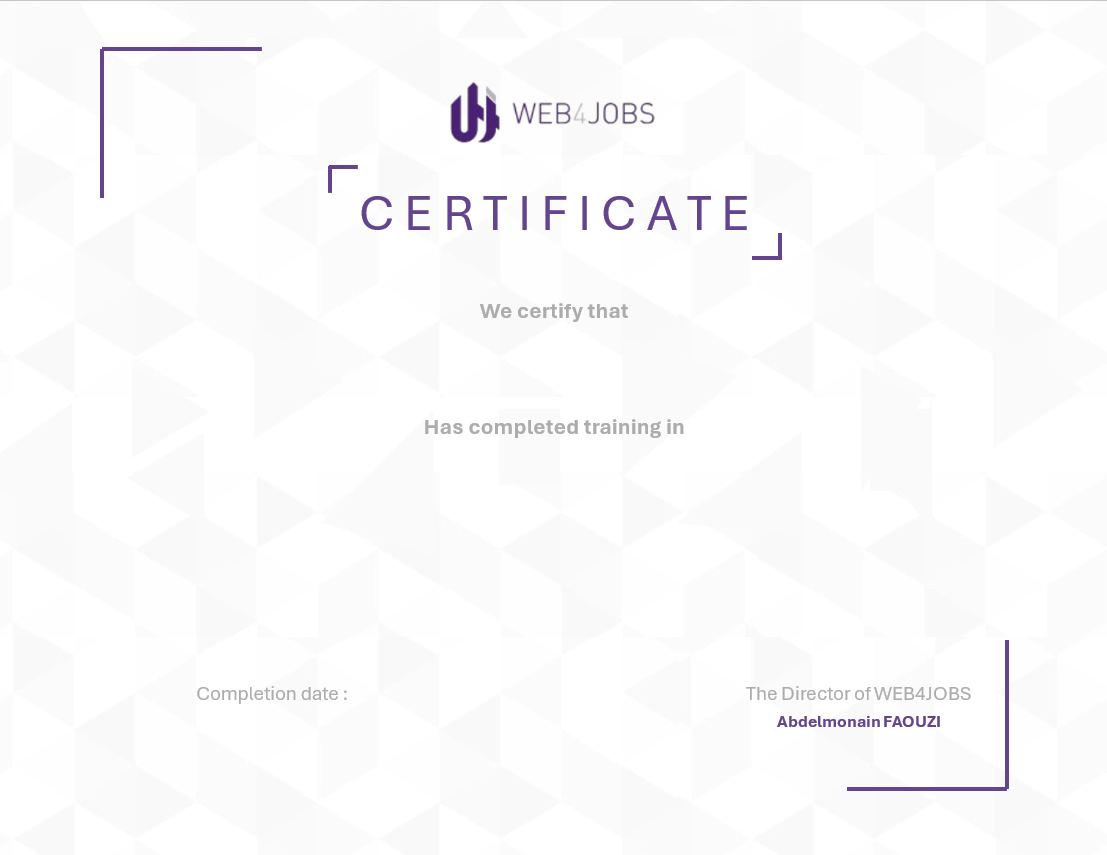
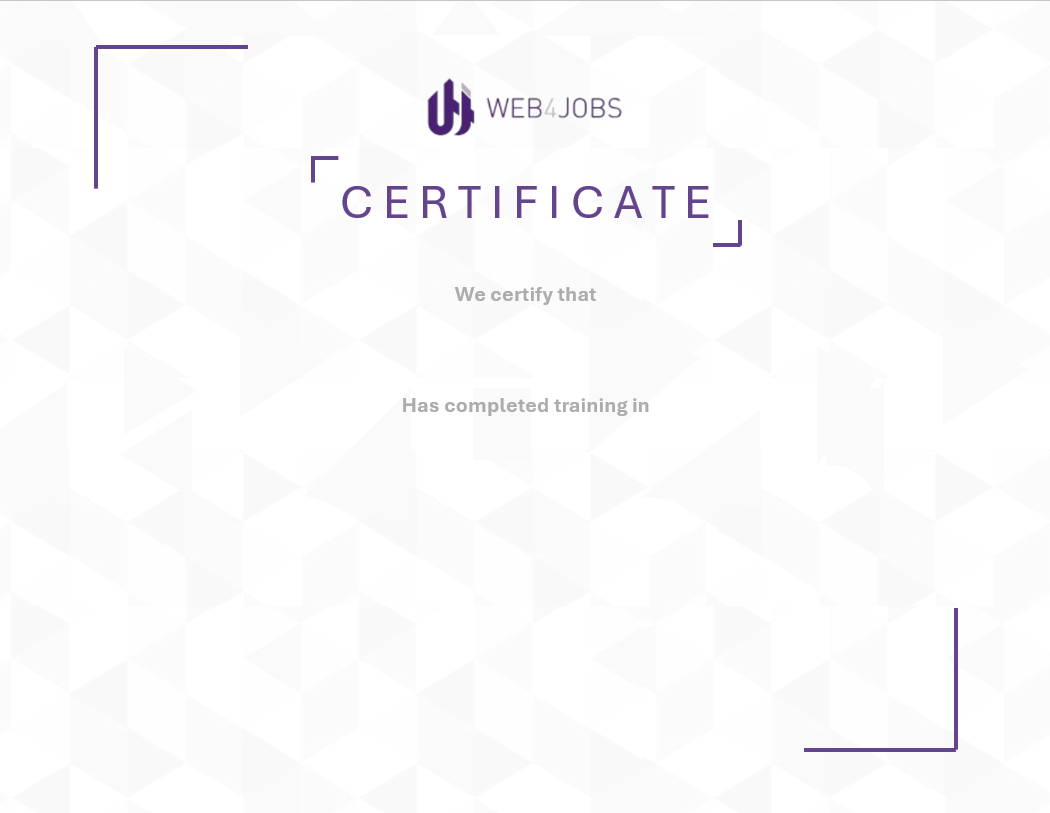
feature fix : 'certificate date'!

diff --git a/src/components/UI/PopupAlert.jsx b/src/components/UI/PopupAlert.jsx
@@ -1,0 +1,133 @@
+import React, { useEffect, useState } from "react";
+
+const PopupAlert = ({ alert, setAlert, time = 4000 }) => {
+  const [isVisible, setIsVisible] = useState(true);
+  const [progress, setProgress] = useState(100);
+
+  useEffect(() => {
+    // Reset progress when alert changes
+    setProgress(100);
+    setIsVisible(true);
+
+    // Progress bar animation
+    const progressInterval = setInterval(() => {
+      setProgress((prev) => Math.max(0, prev - 100 / (time / 50)));
+    }, 50);
+
+    // Hide popup after time
+    const timeout = setTimeout(() => {
+      setIsVisible(false);
+      setTimeout(() => {
+        setAlert({ message: "", success: false });
+      }, 300); // Wait for exit animation
+    }, time);
+
+    return () => {
+      clearInterval(progressInterval);
+      clearTimeout(timeout);
+    };
+  }, [alert, time, setAlert]);
+
+  if (!alert.message) return null;
+
+  return (
+    <div
+      className={`fixed top-25 right-4 z-50 transform transition-all duration-300 ${
+        isVisible
+          ? "translate-x-0 opacity-100"
+          : "translate-x-full translate opacity-0"
+      }`}
+    >
+      <div
+        className={`relative min-w-[400px] max-w-md p-4 rounded-lg shadow-lg ${
+          alert.success
+            ? "bg-green-50 dark:bg-gray-800 border border-green-200 dark:border-gray-700"
+            : "bg-red-50 dark:bg-gray-800 border border-red-200 dark:border-gray-700"
+        }`}
+      >
+        {/* Progress bar */}
+        <div
+          className={`absolute top-0 left-0 h-1 rounded-t-lg ${
+            alert.success
+              ? "bg-green-500 dark:bg-green-400"
+              : "bg-red-500 dark:bg-red-400"
+          }`}
+          style={{ width: `${progress}%` }}
+        />
+
+        {/* Close button */}
+        <button
+          onClick={() => setIsVisible(false)}
+          className="absolute top-2 right-2 rounded-full text-gray-400 dark:text-gray-300 bg-gray-100 dark:bg-gray-700 hover:text-gray-600 dark:hover:text-gray-100 p-1"
+        >
+          <svg
+            xmlns="http://www.w3.org/2000/svg"
+            className="h-5 w-5"
+            viewBox="0 0 20 20"
+            fill="currentColor"
+          >
+            <path
+              fillRule="evenodd"
+              d="M4.293 4.293a1 1 0 011.414 0L10 8.586l4.293-4.293a1 1 0 111.414 1.414L11.414 10l4.293 4.293a1 1 0 01-1.414 1.414L10 11.414l-4.293 4.293a1 1 0 01-1.414-1.414L8.586 10 4.293 5.707a1 1 0 010-1.414z"
+              clipRule="evenodd"
+            />
+          </svg>
+        </button>
+
+        {/* Message content */}
+        <div className="flex items-start">
+          <div
+            className={`flex-shrink-0 ${
+              alert.success
+                ? "text-green-500 dark:text-green-400"
+                : "text-red-500 dark:text-red-400"
+            }`}
+          >
+            {alert.success ? (
+              <svg
+                className="h-6 w-6"
+                fill="none"
+                viewBox="0 0 24 24"
+                stroke="currentColor"
+              >
+                <path
+                  strokeLinecap="round"
+                  strokeLinejoin="round"
+                  strokeWidth={2}
+                  d="M5 13l4 4L19 7"
+                />
+              </svg>
+            ) : (
+              <svg
+                className="h-6 w-6"
+                fill="none"
+                viewBox="0 0 24 24"
+                stroke="currentColor"
+              >
+                <path
+                  strokeLinecap="round"
+                  strokeLinejoin="round"
+                  strokeWidth={2}
+                  d="M6 18L18 6M6 6l12 12"
+                />
+              </svg>
+            )}
+          </div>
+          <div className="mx-3">
+            <p
+              className={`text-sm font-medium  ${
+                alert.success
+                  ? "text-green-800 dark:text-gray-100"
+                  : "text-red-800 dark:text-gray-100"
+              }`}
+            >
+              {alert.message}
+            </p>
+          </div>
+        </div>
+      </div>
+    </div>
+  );
+};
+
+export default PopupAlert;

diff --git a/src/components/GenerateurComponents/CertificatePreview.jsx b/src/components/GenerateurComponents/CertificatePreview.jsx
@@ -4,6 +4,16 @@ import { QRCodeSVG } from "qrcode.react";
 import bg_certificate from "../../assets/bg_certificate.png";
 
 const CertificatePreview = ({ formData }) => {
+  const formatDate = (dateString) => {
+    if (!dateString) return "";
+    const date = new Date(dateString);
+    return date.toLocaleDateString("en-US", {
+      month: "long",
+      day: "numeric",
+      year: "numeric",
+    });
+  };
+
   return (
     <div className="bg-white rounded-2xl shadow-xl p-6 border border-dashed border-gray-300">
       <h3 className="text-lg font-semibold text-gray-700 mt-4 mb-8">
@@ -19,30 +29,48 @@ const CertificatePreview = ({ formData }) => {
           />
 
           {/* Certificate Content with Responsive Positioning */}
-          <div className="absolute inset-0 flex flex-col items-center justify-center ">
+          <div className="absolute inset-0 flex flex-col items-center justify-center">
             {/* Flex container for certificate content */}
             <div className="flex flex-col items-center justify-center h-full w-full relative">
               {/* Name - positioned at ~50% from top */}
               <div className="mb-20 -mt-7 text-center">
                 <h2 className="font-bold text-3xl md:text-4xl capitalize text-[#63448d]">
-                  <span className="capitalize">
+                  <span className="capitalize font-exo">
                     {formData.firstName || "_"}
                   </span>{" "}
-                  <span className="uppercase">{formData.lastName || "_"}</span>
+                  <span className="uppercase font-exo">
+                    {formData.lastName || "_"}
+                  </span>
                 </h2>
               </div>
 
               {/* Formation Title - positioned below name */}
               <div className="text-center">
-                <h3 className="font-bold text-2xl md:text-4xl  text-[#63448d]">
+                <h3 className="font-exo font-bold text-2xl md:text-4xl capitalize text-[#63448d]">
                   {formData.formationTitle || "_"}
                 </h3>
               </div>
 
-              {/* date */}
-              <div className="flex w-full justify-between absolute bottom-28 left-60 text-[#adacad]">
-                <div className="font-medium text-xl text-[#adacad]">
-                  {/* {formatDate(formData.obtentionDate)} */}
+              {/* date and director */}
+              <div className="flex justify-around items-center absolute z-50 bottom-30 w-full">
+                {/* date */}
+                <div className="flex flex-col w-fit items-center justify-center">
+                  <span className="font-medium text-lg text-[#bbbbbb]">
+                    Completion date :
+                  </span>
+                  <span className="font-medium text-lg text-[#bbbbbb]">
+                    {formatDate(formData.obtentionDate)}
+                  </span>
+                </div>
+
+                {/* director */}
+                <div className="flex flex-col w-fit items-center justify-center">
+                  <span className="font-medium text-lg text-[#bbbbbb]">
+                    The Director of WEB4JOBS
+                  </span>
+                  <span className="font-bold text-md text-[#4a277a]">
+                    Abdelmonaim FAOUZI
+                  </span>
                 </div>
               </div>
 

diff --git a/src/pages/GenerateurDeCertificats.jsx b/src/pages/GenerateurDeCertificats.jsx
@@ -1,6 +1,7 @@
 import React, { useState, useEffect } from "react";
 
 import Hero from "../components/UI/Hero";
+import PopupAlert from "../components/UI/PopupAlert.jsx";
 
 import FormCard from "../components/GenerateurComponents/FormCard.jsx";
 import CertificatePreview from "../components/GenerateurComponents/CertificatePreview.jsx";
@@ -10,6 +11,7 @@ import { Loader } from "lucide-react";
 
 const GenerateurDeCertificats = () => {
   const [loading, setLoading] = useState(true);
+  const [alert, setAlert] = useState({ message: "", success: false });
   const [formations, setFormations] = useState([]);
   const [formationsUpade, setFormationsUpade] = useState(false);
   const [formData, setFormData] = useState({
@@ -46,9 +48,27 @@ const GenerateurDeCertificats = () => {
   };
 
   const generatePDF = () => {
+    if (
+      !formData.firstName ||
+      !formData.lastName ||
+      !formData.obtentionDate ||
+      !formData.formationTitle ||
+      !formData.qrCodeLink
+    ) {
+      setAlert({
+        message:
+          "Please complete all required fields before generating the certificate.",
+        success: false,
+      });
+      return;
+    }
+
     const certificateToPrint = document.querySelector(".printed-part");
     if (!certificateToPrint) {
-      console.error("Could not find certificate to print");
+      setAlert({
+        message: "Could not find certificate to print",
+        success: false,
+      });
       return;
     }
 
@@ -163,16 +183,6 @@ const GenerateurDeCertificats = () => {
     printWindow.focus();
   };
 
-  const formatDate = (dateString) => {
-    if (!dateString) return "";
-    const date = new Date(dateString);
-    return date.toLocaleDateString("en-US", {
-      month: "long",
-      day: "numeric",
-      year: "numeric",
-    });
-  };
-
   return (
     <div>
       {formationsUpade && (
@@ -181,6 +191,8 @@ const GenerateurDeCertificats = () => {
           setFormations={setFormations}
         />
       )}
+
+      {alert?.message && <PopupAlert alert={alert} setAlert={setAlert} />}
 
       <main className="container mx-auto p-4 flex-grow z-10 relative w-full xl:w-10/12 max-w-7xl">
         <Hero title="générateur de certificats" />

diff --git a/src/components/GenerateurComponents/FormCard.jsx b/src/components/GenerateurComponents/FormCard.jsx
@@ -69,8 +69,8 @@ const FormCard = ({
                 className="w-full cursor-pointer px-4 py-3 border border-purple-200 rounded-lg focus:outline-none focus:ring-2 focus:ring-[#4a277a] transition-all"
                 onChange={handleInputChange}
               >
-                <option className="cursor-pointer" defaultValue disabled>
-                  select Titre de la formation
+                <option className="cursor-pointer" disabled value="">
+                  Select titre de la formation
                 </option>
                 {formations &&
                   formations.map((formation, i) => (

diff --git a/src/index.css b/src/index.css
@@ -1,5 +1,6 @@
-@import "tailwindcss";
+@import url("https://fonts.googleapis.com/css2?family=Exo+2:wght@100..900&display=swap");
 
+@import "tailwindcss";
 @custom-variant dark (&:where(.dark, .dark *));
 
 .header-new-about {
@@ -23,10 +24,7 @@
   text-align: center;
   margin-inline: auto;
 }
-
-/* ========== */
-.certificate {
-  /* background-image: url("./assets/bg_certificate.png"); */
-  /* background-repeat: no-repeat; */
-  /* object-fit: con; */
+.font-exo {
+  font-family: "Exo 2", sans-serif;
+  font-optical-sizing: auto;
 }
